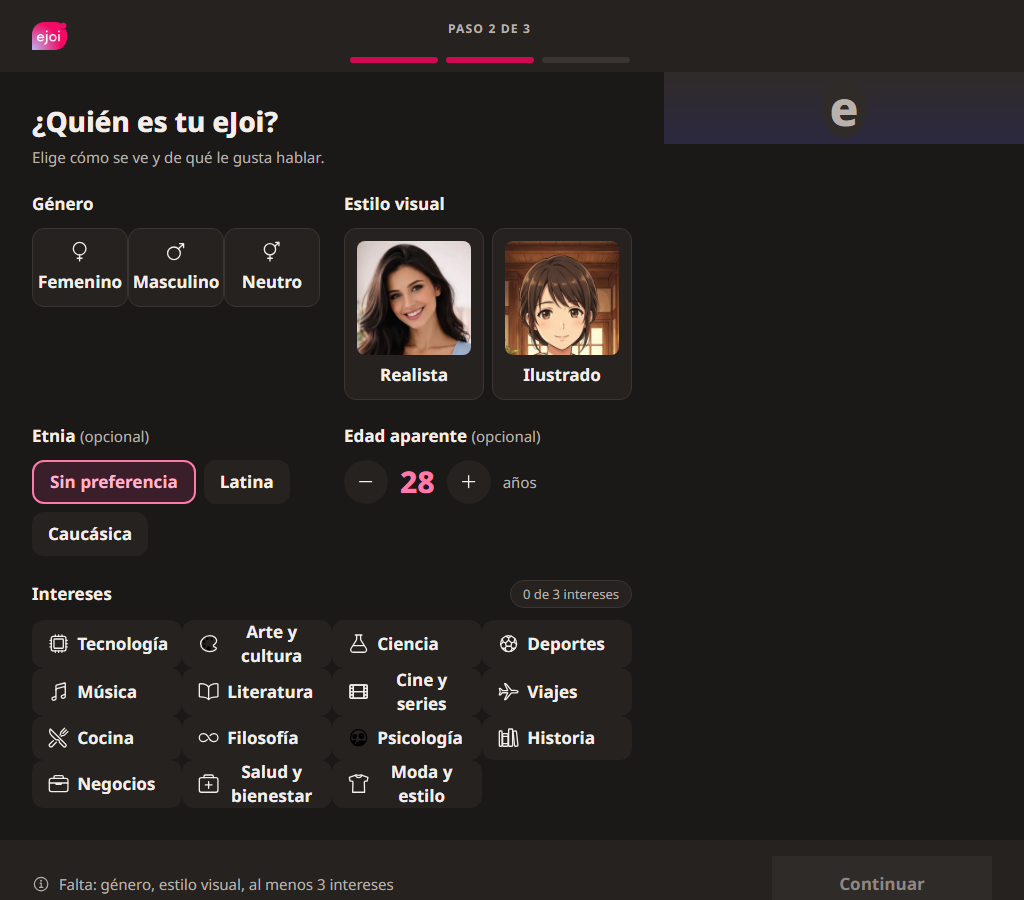
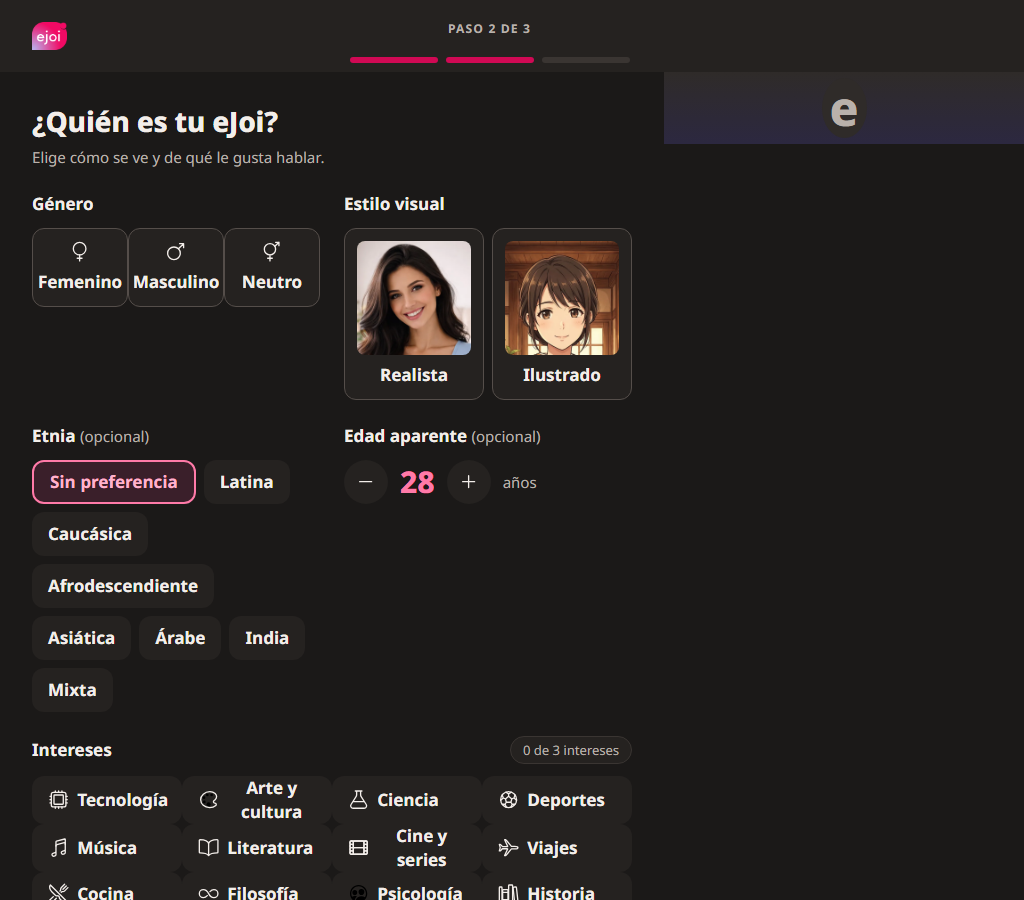
fix(web): scroll en contenido principal, chips visibles y bordes oscuro (SCRUM-164)
E1 scroll en .desktop-shell__main; quitar recorte en .create-who.
E2 chip-wrap sin overflow; E3 logo proporcional; E4 un Volver; E5 bordes dark.

Refs: SCRUM-104

diff --git a/src/pages/CreateHow/CreateHowPage.tsx b/src/pages/CreateHow/CreateHowPage.tsx
@@ -168,14 +168,7 @@ export default function CreateHowPage() {
         />
       }
       footer={
-        <div className="creation-shell-footer creation-shell-footer--how">
-          <button
-            type="button"
-            className="btn btn--secondary btn--m"
-            onClick={() => void navigate('/crear/quien')}
-          >
-            {t('create.back')}
-          </button>
+        <div className="creation-shell-footer">
           {!canSubmit ? (
             <p id={missingId} className="creation-shell-footer__hint" role="status">
               <AppIcon name="information-circle-outline" />

diff --git a/src/theme/ui.css b/src/theme/ui.css
@@ -228,6 +228,17 @@
   border-style: dashed;
 }
 
+:root[data-theme='dark'] .chip:not([aria-checked='true']):not([aria-pressed='true']),
+:root[data-theme='dark'] .opt:not([aria-checked='true']):not([aria-pressed='true']) {
+  border-width: 1.5px;
+  border-color: var(--c-line-strong);
+}
+
+:root[data-theme='dark'] .stepper .btn--secondary {
+  border-width: 1.5px;
+  border-color: var(--c-line-strong);
+}
+
 .seg {
   display: flex;
   align-items: center;

diff --git a/src/pages/CreateWho/CreateWhoPage.css b/src/pages/CreateWho/CreateWhoPage.css
@@ -2,9 +2,7 @@
   display: flex;
   flex-direction: column;
   gap: var(--space-6);
-  height: 100%;
   min-height: 0;
-  overflow: hidden;
 }
 
 .create-step__intro h1 {
@@ -75,8 +73,6 @@
   display: flex;
   flex-wrap: wrap;
   gap: var(--space-2);
-  max-height: calc(44px * 2 + var(--space-2));
-  overflow: hidden;
 }
 
 .create-who__age-row {

diff --git a/src/components/Logo.tsx b/src/components/Logo.tsx
@@ -10,6 +10,7 @@ export function Logo({ height = 28, className }: LogoProps) {
       srcSet="/logos/principal@2x.png 2x"
       alt="eJoi"
       height={height}
+      style={{ width: 'auto', height }}
       className={className}
     />
   );

diff --git a/src/layout/DesktopShell.css b/src/layout/DesktopShell.css
@@ -44,7 +44,7 @@
 .desktop-shell__main {
   grid-area: main;
   min-height: 0;
-  overflow: hidden;
+  overflow-y: auto;
   padding: var(--space-7) var(--gutter);
 }
 

diff --git a/src/features/chat/SideMenu.css b/src/features/chat/SideMenu.css
@@ -8,6 +8,8 @@
 
 .chat-side-menu__logo {
   display: block;
+  width: auto;
+  height: 28px;
   margin-bottom: var(--space-4);
 }
 
